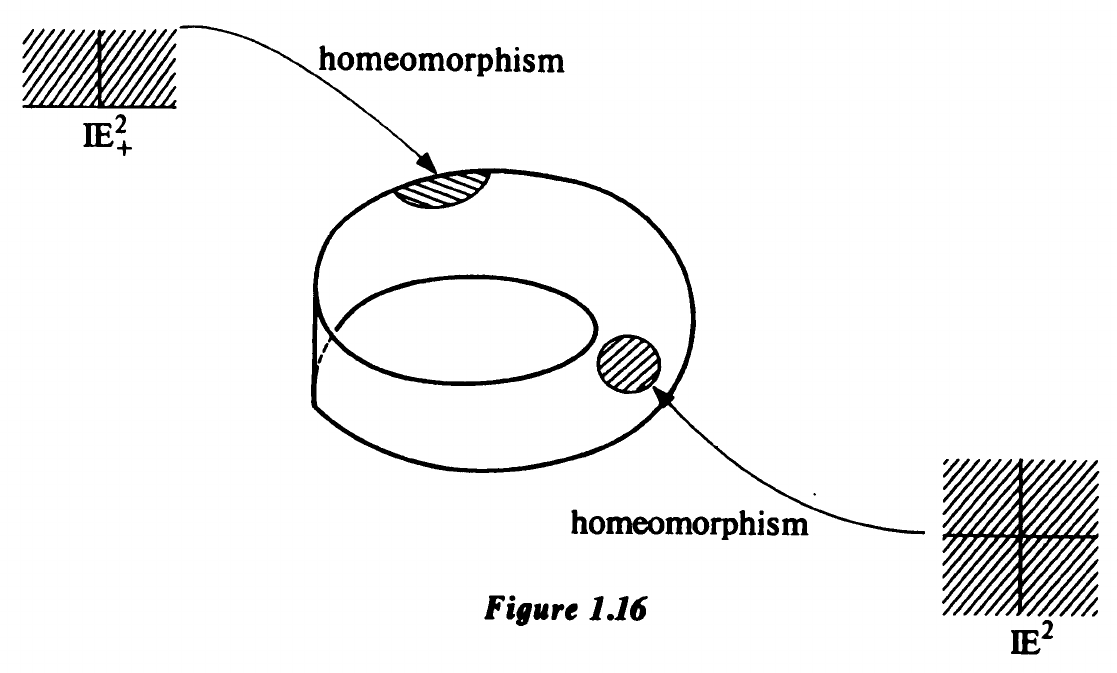
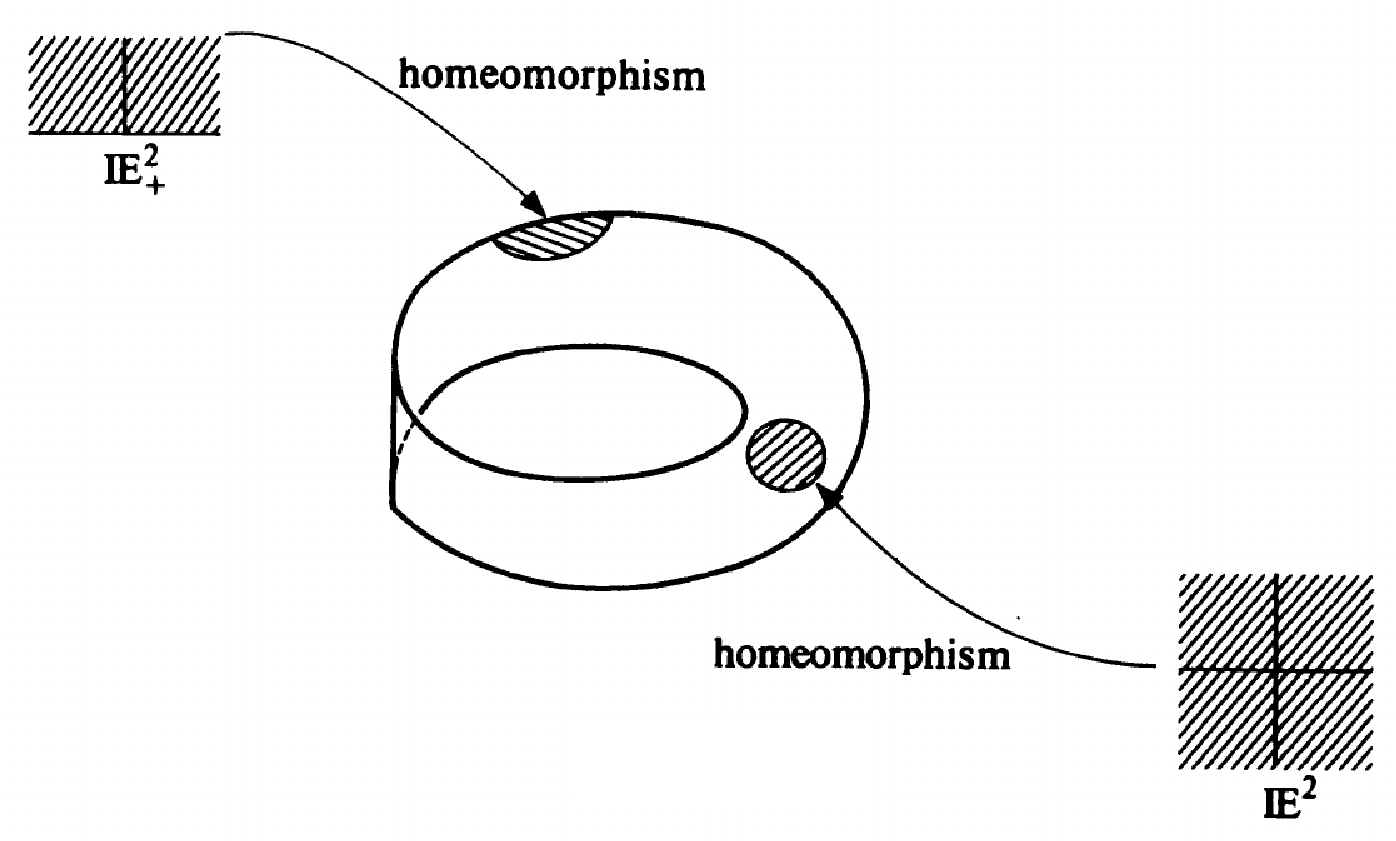
speech Abstract spaces

diff --git a/introduction-to-topology.tex b/introduction-to-topology.tex
@@ -768,12 +768,28 @@
 \begin{frame}{Abstract spaces}
   \begin{definition}[Surface]
     (1.3) A surface is a topological space in which each point has a neighbourhood homeomorphic to the plane, and for which any two distinct points possess disjoint neighbourhoods.
-    \begin{itemize}
-    \item The definition fits exactly our intuitive idea of what a surface should be.
-    \item If we stand in it at some point (imagining a giant version of the surface in question) and look at the points very close to our feet we should be able to imagine that we are standing on a plane.
-    \item The surface of the earth is a good example. Unless you belong to the Flat Earth Society you believe it to be (topologically) a sphere, yet locailly it looks distinctly planar.
-    \end{itemize}
   \end{definition}
+\end{frame}
+
+\begin{frame}{Abstract spaces}
+  \begin{columns}
+    \begin{column}{0.5\textwidth}
+      \begin{definition}[Surface]
+        \begin{itemize}
+        \item Stand in it at some point (imagining a giant version of the surface) and look at the points very close to our feet - We are standing on a plane.
+        \item Unless you belong to the Flat Earth Society you believe the surface of the earth to be (topologically) a sphere, yet locailly it looks distinctly planar.
+        \end{itemize}
+      \end{definition}
+    \end{column}
+    % Column 2
+    \begin{column}{0.5\textwidth}
+      \begin{figure}
+        \centering
+        \includegraphics[width=0.7\textwidth]{figure_1_16.png}
+        \caption{homeomorphic to $\mathbb{E}^2$}
+      \end{figure}
+    \end{column}
+  \end{columns}
 \end{frame}
 
 \section{Mobius strip}

diff --git a/introduction-to-topology-speech.tex b/introduction-to-topology-speech.tex
@@ -365,6 +365,13 @@
     (1.3) A surface is a topological space in which each point has a neighbourhood homeomorphic to the plane, and for which any two distinct points possess disjoint neighbourhoods.
     \begin{itemize}
     \item The definition fits exactly our intuitive idea of what a surface should be.
+    \end{itemize}
+  \end{definition}
+\end{frame}
+
+\begin{frame}{Abstract spaces}
+  \begin{definition}[Surface]
+    \begin{itemize}
     \item If we stand in it at some point (imagining a giant version of the surface in question) and look at the points very close to our feet we should be able to imagine that we are standing on a plane.
     \item The surface of the earth is a good example. Unless you belong to the Flat Earth Society you believe it to be (topologically) a sphere, yet locailly it looks distinctly planar.
     \end{itemize}
